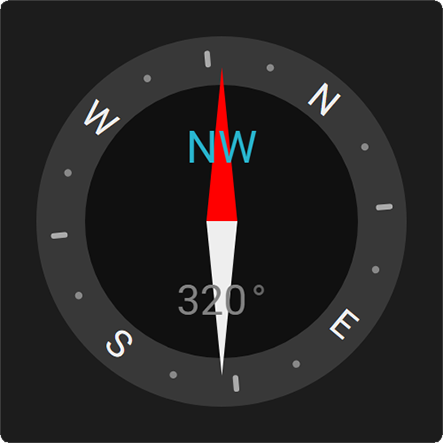
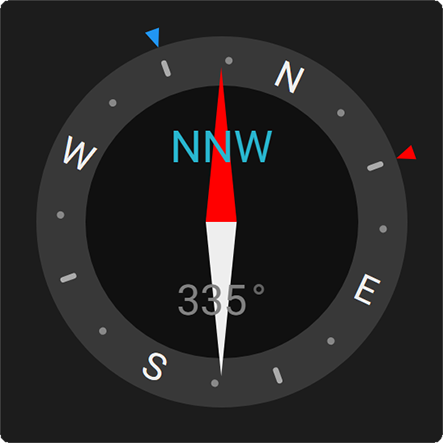
Added Marker 1 and Marker 2: fixed-bearing indicators on the bezel, configurable with degrees, size, position and color.

diff --git a/src/custom-compass-card.js b/src/custom-compass-card.js
@@ -1,14 +1,40 @@
 import { LitElement, html, svg, css } from 'https://unpkg.com/lit@2.0.0/index.js?module';
 
 // ─── Card Version ─────────────────────────────────────────────────────────────
-const CARD_VERSION = '3.3.106';
+const CARD_VERSION = '3.4.108';
+// ─── Card Version History ─────────────────────────────────────────────────────
+// v3.4.108: Rename tickmark→tick throughout; add marker_1 and marker_2 (fixed bearing triangle markers on tick layer)
+// v3.4.107: Rename tickmark→tick throughout; add marker_1 and marker_2 (fixed bearing triangle markers on tick layer)
+// v3.3.106: Rename needle_animation_duration to rotation_animation_time
+// v3.3.105: Smooth needle animation via CSS transition; shortest-arc rotation to avoid wrap-around sweep; needle_animation_duration default config key
+// v3.3.104: Consistent toggle-field pattern across all editor sections; field-styling-grid for template-type fields
+// v3.3.103: Move "Rotate compass" toggle to compass configuration block above Needle section
+// v3.3.102: Add compass_rotate mode: dial rotates, needle stays fixed pointing north; replace ha-formfield in needle toggles with label+ha-switch pattern
+// v3.2.101: Header/footer use calc(±10px + position) for translateY; padding reduced to 10px
+// v3.2.100: Adjust header/footer natural position via padding; set default fontsize to 2.0
+// v3.2.99: Add template support to header/footer; reorder DEFAULT_CONFIG; rename dirs to directions
+// v3.2.98: Add optional header and footer text above/below compass circle
+// v3.2.97: Fix getCompassDirection: build all 16 directions from the 4 configured cardinals
+// v3.2.96: Fix Bezel labels in editor; fix getCompassDirection to use configured cardinals
+// v3.2.95: Update defaults: needle shape/color, tick marks visible, field_2 hidden
+// v3.2.94: Add Template label to field template inputs; consolidate unit fields onto one row
+// v3.2.93: Add fontweight and position to custom fields; remove hardcoded field top positions
+// v3.2.92: Update default values for tick marks and cardinals
+// v3.2.91: Cardinals get own fontsize/fontweight/position/fontcolor; rename cardinal_labels_show to cardinals_show
+// v3.2.90: Add cardinal_color; rename major_ticks_cardinals to cardinal_labels_show; use cardinal_color in rendering
+// v3.2.89: Fix cardinal labels filtered out by show flag: return show:true from cardinal branch
+// v3.2.88: Fix cardinal labels not rendering: remove dependency on major_ticks_show flag
+// v3.2.87: Add configurable cardinal labels (N/E/S/W); mutual exclusion between Cardinal labels and Primary ticks toggles in UI editor
+// v3.2.86: Replace all string-based config key lookups with explicit fieldDefs lookup objects in _updateTemplates, _fieldStyle, _unitStyle and renderField
+// v3.2.85: Add cardinals flag to tickDefs; replace hardcoded string comparison with def.cardinals boolean
+// v3.2.84: Replace string-based config key lookup with explicit tickDefs lookup object
+// v3.2.83: Fix tick mark rendering: correct config key pattern from tick_major_ to major_ticks_ after variable rename
 
 // ─── Default Configuration ────────────────────────────────────────────────────
 const DEFAULT_CONFIG = {
   compass_entity:           'sun.sun',
   compass_attribute:        'azimuth',
   compass_adjustment:       0,
-  rotation_animation_time: 0.3,
   background_color:         '#101010',
   bezel_color:              '#383838',
   bezel_width:              16,
@@ -26,6 +52,18 @@ const DEFAULT_CONFIG = {
   needle_position:          -10,
   needle_morph:             50,
   needle_curve:             0,
+  marker_1_show:            false,
+  marker_1_degrees:         45,
+  marker_1_length:          5,
+  marker_1_width:           4,
+  marker_1_position:        0,
+  marker_1_color:           '#FF0000',
+  marker_2_show:            false,
+  marker_2_degrees:         315,
+  marker_2_length:          5,
+  marker_2_width:           4,
+  marker_2_position:        0,
+  marker_2_color:           '#2196F3',
   cardinals_show:           false,
   cardinal_north:           'N',
   cardinal_east:            'E',
@@ -92,6 +130,7 @@ const DEFAULT_CONFIG = {
   field_3_unit_fontsize:    1.4,
   field_3_unit_fontweight:  400,
   field_3_unit_fontcolor:   '#606060',
+  rotation_animation_time:  0.3,  
 };
 
 // ─── Visual Editor ────────────────────────────────────────────────────────────
@@ -320,10 +359,104 @@ class CustomCompassCardEditor extends LitElement {
         </div>
       </div>
 
-	  <h2>Tickmarks configuration</h2>
+	  <h2>Markers configuration</h2>
+
+      <!-- Marker 1 -->
+      <div class="marker-toggles-grid">
+        <div class="toggle-field">
+          <label>Show marker 1</label>
+          <ha-switch
+            .checked=${c.marker_1_show}
+            @change=${e => this._valueChanged('marker_1_show', e)}
+          ></ha-switch>
+        </div>
+      </div>
+      <div class="marker-styling-grid">
+        <div class="text-field">
+          <label>Degrees</label>
+          <ha-textfield
+            type="number" step="1" min="0" max="359"
+            .value=${String(c.marker_1_degrees)}
+            @input=${e => this._valueChanged('marker_1_degrees', e)}
+          ></ha-textfield>
+        </div>
+        <div class="text-field">
+          <label>Length</label>
+          <ha-textfield
+            type="number" step="0.1" min="0"
+            .value=${String(c.marker_1_length)}
+            @input=${e => this._valueChanged('marker_1_length', e)}
+          ></ha-textfield>
+        </div>
+        <div class="text-field">
+          <label>Width</label>
+          <ha-textfield
+            type="number" step="0.1" min="0"
+            .value=${String(c.marker_1_width)}
+            @input=${e => this._valueChanged('marker_1_width', e)}
+          ></ha-textfield>
+        </div>
+        <div class="text-field">
+          <label>Position</label>
+          <ha-textfield
+            type="number" step="0.5"
+            .value=${String(c.marker_1_position)}
+            @input=${e => this._valueChanged('marker_1_position', e)}
+          ></ha-textfield>
+        </div>
+        ${this._colorPicker('marker_1_color', 'Color')}
+      </div>
+
+      <!-- Marker 2 -->
+      <div class="marker-toggles-grid">
+        <div class="toggle-field">
+          <label>Show marker 2</label>
+          <ha-switch
+            .checked=${c.marker_2_show}
+            @change=${e => this._valueChanged('marker_2_show', e)}
+          ></ha-switch>
+        </div>
+      </div>
+      <div class="marker-styling-grid">
+        <div class="text-field">
+          <label>Degrees</label>
+          <ha-textfield
+            type="number" step="1" min="0" max="359"
+            .value=${String(c.marker_2_degrees)}
+            @input=${e => this._valueChanged('marker_2_degrees', e)}
+          ></ha-textfield>
+        </div>
+        <div class="text-field">
+          <label>Length</label>
+          <ha-textfield
+            type="number" step="0.1" min="0"
+            .value=${String(c.marker_2_length)}
+            @input=${e => this._valueChanged('marker_2_length', e)}
+          ></ha-textfield>
+        </div>
+        <div class="text-field">
+          <label>Width</label>
+          <ha-textfield
+            type="number" step="0.1" min="0"
+            .value=${String(c.marker_2_width)}
+            @input=${e => this._valueChanged('marker_2_width', e)}
+          ></ha-textfield>
+        </div>
+        <div class="text-field">
+          <label>Position</label>
+          <ha-textfield
+            type="number" step="0.5"
+            .value=${String(c.marker_2_position)}
+            @input=${e => this._valueChanged('marker_2_position', e)}
+          ></ha-textfield>
+        </div>
+        ${this._colorPicker('marker_2_color', 'Color')}
+      </div>
+
+	  <h2>Ticks configuration</h2>
 
       <!-- Cardinal labels -->
-      <div class="tickmark-toggles-grid">
+      <div class="tick-toggles-grid">
         <div class="toggle-field">
           <label>Cardinal labels</label>
           <ha-switch
@@ -365,7 +498,7 @@ class CustomCompassCardEditor extends LitElement {
           ></ha-textfield>
         </div>
       </div>
-      <div class="tickmark-styling-grid">
+      <div class="tick-styling-grid">
         <div class="text-field">
           <label>Font size</label>
           <ha-textfield
@@ -394,7 +527,7 @@ class CustomCompassCardEditor extends LitElement {
       </div>
 
       <!-- Primary ticks -->
-      <div class="tickmark-toggles-grid">
+      <div class="tick-toggles-grid">
         <div class="toggle-field">
           <label>Primary ticks</label>
           <ha-switch
@@ -406,7 +539,7 @@ class CustomCompassCardEditor extends LitElement {
           ></ha-switch>
         </div>
       </div>
-      <div class="tickmark-styling-grid">
+      <div class="tick-styling-grid">
         <div class="text-field">
           <label>Length</label>
           <ha-textfield
@@ -435,7 +568,7 @@ class CustomCompassCardEditor extends LitElement {
       </div>
 
       <!-- Medium ticks -->
-      <div class="tickmark-toggles-grid">
+      <div class="tick-toggles-grid">
         <div class="toggle-field">
           <label>Secondary ticks</label>
           <ha-switch
@@ -444,7 +577,7 @@ class CustomCompassCardEditor extends LitElement {
           ></ha-switch>
         </div>
       </div>
-      <div class="tickmark-styling-grid">
+      <div class="tick-styling-grid">
         <div class="text-field">
           <label>Length</label>
           <ha-textfield
@@ -473,7 +606,7 @@ class CustomCompassCardEditor extends LitElement {
       </div>
 
       <!-- Micro ticks -->
-      <div class="tickmark-toggles-grid">
+      <div class="tick-toggles-grid">
         <div class="toggle-field">
           <label>Tertiary ticks</label>
           <ha-switch
@@ -482,7 +615,7 @@ class CustomCompassCardEditor extends LitElement {
           ></ha-switch>
         </div>
       </div>
-      <div class="tickmark-styling-grid">
+      <div class="tick-styling-grid">
         <div class="text-field">
           <label>Length</label>
           <ha-textfield
@@ -890,7 +1023,7 @@ class CustomCompassCardEditor extends LitElement {
       margin-bottom: 16px;
     }
 
-    .tickmark-toggles-grid {
+    .tick-toggles-grid {
       display: grid;
       grid-template-columns: 1fr;
       gap: 8px;
@@ -906,7 +1039,7 @@ class CustomCompassCardEditor extends LitElement {
       margin-bottom: 8px;
     }
 
-    .tickmark-styling-grid {
+    .tick-styling-grid {
       display: grid;
       grid-template-columns: 2fr 2fr 2fr 3fr;
       gap: 8px;
@@ -944,6 +1077,23 @@ class CustomCompassCardEditor extends LitElement {
       grid-template-columns: 2fr 1fr 1fr 2fr;
       gap: 8px;
       margin-top: 8px;
+      align-items: end;
+    }
+
+    .marker-toggles-grid {
+      display: grid;
+      grid-template-columns: 1fr;
+      gap: 8px;
+      margin-top: 28px;
+      margin-bottom: 16px;
+    }
+
+    .marker-styling-grid {
+      display: grid;
+      grid-template-columns: 4fr 4fr 4fr 4fr 7fr;
+      gap: 8px;
+      margin-top: 8px;
+      margin-bottom: 8px;
       align-items: end;
     }
 
@@ -1317,6 +1467,34 @@ class CustomCompassCard extends LitElement {
       return { show, type: 'line', x1, y1, x2, y2, color, width };
     });
 
+    // Build marker triangles — inverted triangle pointing inward at a fixed bearing
+    const markerDefs = [
+      { show: c.marker_1_show, degrees: parseFloat(c.marker_1_degrees), length: parseFloat(c.marker_1_length), width: parseFloat(c.marker_1_width), position: parseFloat(c.marker_1_position), color: c.marker_1_color },
+      { show: c.marker_2_show, degrees: parseFloat(c.marker_2_degrees), length: parseFloat(c.marker_2_length), width: parseFloat(c.marker_2_width), position: parseFloat(c.marker_2_position), color: c.marker_2_color },
+    ];
+
+    const markers = markerDefs.map(m => {
+      if (!m.show) return null;
+      const angle  = m.degrees * Math.PI / 180;
+      const sinA   = Math.sin(angle);
+      const cosA   = Math.cos(angle);
+      // Tip: on the bezel edge + position offset
+      const tipR   = r + m.position;
+      const tx     = cx + tipR * sinA;
+      const ty     = cy - tipR * cosA;
+      // Base: outward from tip by length
+      const baseR  = tipR + m.length;
+      const baseCx = cx + baseR * sinA;
+      const baseCy = cy - baseR * cosA;
+      // Base corners: perpendicular to radial direction, ±width/2
+      const half   = m.width / 2;
+      const b1x    = baseCx + half * cosA;
+      const b1y    = baseCy + half * sinA;
+      const b2x    = baseCx - half * cosA;
+      const b2y    = baseCy - half * sinA;
+      return { color: m.color, path: `M ${tx},${ty} L ${b1x},${b1y} L ${b2x},${b2y} Z` };
+    }).filter(Boolean);
+
     return html`
       <div class="compass-ticks-wrapper" style="transform:${ticksTransform}">
         <svg class="compass-ticks" viewBox="0 0 100 100" preserveAspectRatio="none">
@@ -1337,6 +1515,9 @@ class CustomCompassCard extends LitElement {
                     stroke="${t.color}" stroke-width="${t.width}" stroke-linecap="round"/>
             `;
           })}
+          ${markers.map(m => svg`
+            <path d="${m.path}" fill="${m.color}" />
+          `)}
         </svg>
       </div>
     `;

diff --git a/README.md b/README.md
@@ -150,6 +150,26 @@ Cardinal labels and major tick marks are mutually exclusive in the editor — en
 
 ---
 
+## Markers
+
+Two markers can be placed on the compass dial at any fixed bearing. Each marker is an inverted triangle that points inward toward the center, sitting just outside the bezel edge by default.
+
+Markers are useful for indicating a reference bearing — a target wind angle, a solar panel orientation, a waypoint direction, or any other fixed point of interest. Because markers live on the same layer as the tick marks, they behave identically in both rotation modes: they stay fixed on the dial in normal mode, and rotate with the dial in **Rotate compass** mode, which is exactly the correct behaviour for a fixed real-world bearing.
+
+The two markers are independent and fully configurable. By default marker 1 is red and marker 2 is blue, but any color is accepted.
+
+### Position
+
+`marker_position` controls how far the marker sits from the bezel edge:
+
+| Value | Effect |
+|-------|--------|
+| `0` | Tip of the triangle touches the bezel edge (default) |
+| positive | Marker moves outward, away from the dial |
+| negative | Marker moves inward, overlapping the bezel |
+
+---
+
 ## Text fields
 
 Three text fields can be displayed inside the compass at configurable vertical positions. Each field shows a value and an optional unit, with independent font size, font weight, and color controls for both the value and the unit.
@@ -238,6 +258,21 @@ Replace `major` with `minor` or `micro` for the other tiers.
 
 Minor defaults: length `3`, width `1.5`, position `-4.5`, color `#AAAAAA`  
 Micro defaults: length `0`, width `2`, position `-6.5`, color `#888888`
+
+### Markers
+
+Replace `1` with `2` for the second marker.
+
+| Option | Default | Description |
+|--------|---------|-------------|
+| `marker_1_show` | `false` | Show or hide |
+| `marker_1_degrees` | `30` | Fixed bearing in degrees (0–359) |
+| `marker_1_length` | `5` | Triangle height |
+| `marker_1_width` | `4` | Triangle base width |
+| `marker_1_position` | `0` | Offset from bezel edge. Positive = outward, negative = inward |
+| `marker_1_color` | `#FF0000` | Fill color. Supports `#RRGGBBAA` |
+
+Marker 2 defaults: degrees `330`, color `#2196F3`
 
 ### Header and footer
 
